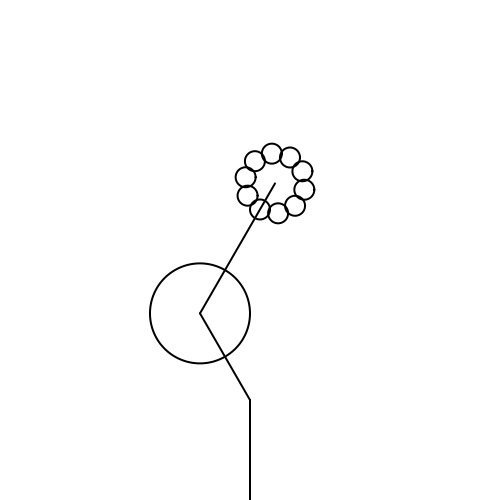
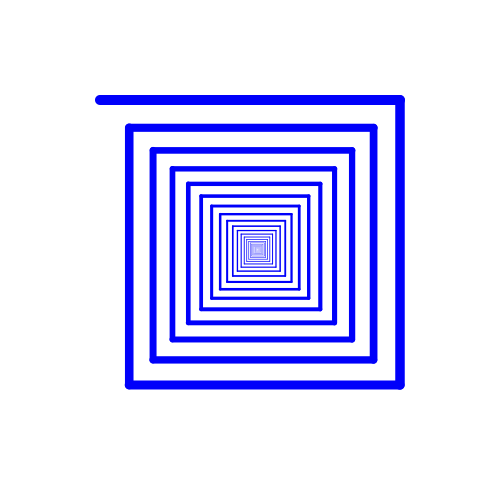
vendo aulas

Changed region(s): [[0.18, 0.18, 0.81, 1.0]]

diff --git a/ed/fractais_png/src/go/main.go b/ed/fractais_png/src/go/main.go
@@ -9,30 +9,24 @@ func randInt(min, max int) int {
 	return min + rand.Intn(max-min+1)
 }
 
-func main() {
-	pen := NewPen(500, 500)      // cria um canvas de 500 de largura por 500 de altura
-	pen.SetRGB(0, 0, 0)    // muda a cor do pincel para vermelho
-	pen.SetPosition(250, 500) // move o pincel para x 250, y 500
-	pen.SetHeading(90)       // coloca o pincel apontando para cima
-	pen.Walk(100)            // anda 100 pixels
-	pen.Left(30)             // dobra 30 graus para esquerda
-	pen.Walk(100)            // anda 100 pixels
-	pen.DrawCircle(50)       // desenha um círculo de raio 50
-	pen.Right(60)            // gira para direita 60 graus
-	pen.Walk(150)
-	for range 10 {
-		pen.Up()
-		pen.Walk(30) // anda sem riscar
-		pen.Down()
-
-		pen.DrawCircle(10) //desenha um circulo pequeno
-
-		pen.Up()
-		pen.Walk(-30) // volta sem riscar
-		pen.Down()
-
-		pen.Left(36) // gira
+func embua(pen *Pen, dist float64) {
+	if dist < 1 {
+		return
 	}
+	pen.SetLineWidth(dist / 30)
+	pen.Walk(dist)
+	pen.Right(90)
+	dist *= 0.95
+	embua(pen, dist)
+}
+
+func main() {
+	pen := NewPen(500, 500)
+	pen.SetRGB(0, 0, 250)
+	pen.SetPosition(250, 250)
+	pen.SetHeading(0)
+	pen.SetPosition(100, 100)
+	embua(pen, 300)
 
 	pen.SavePNG("tree.png")
 	fmt.Println("PNG file created successfully.")